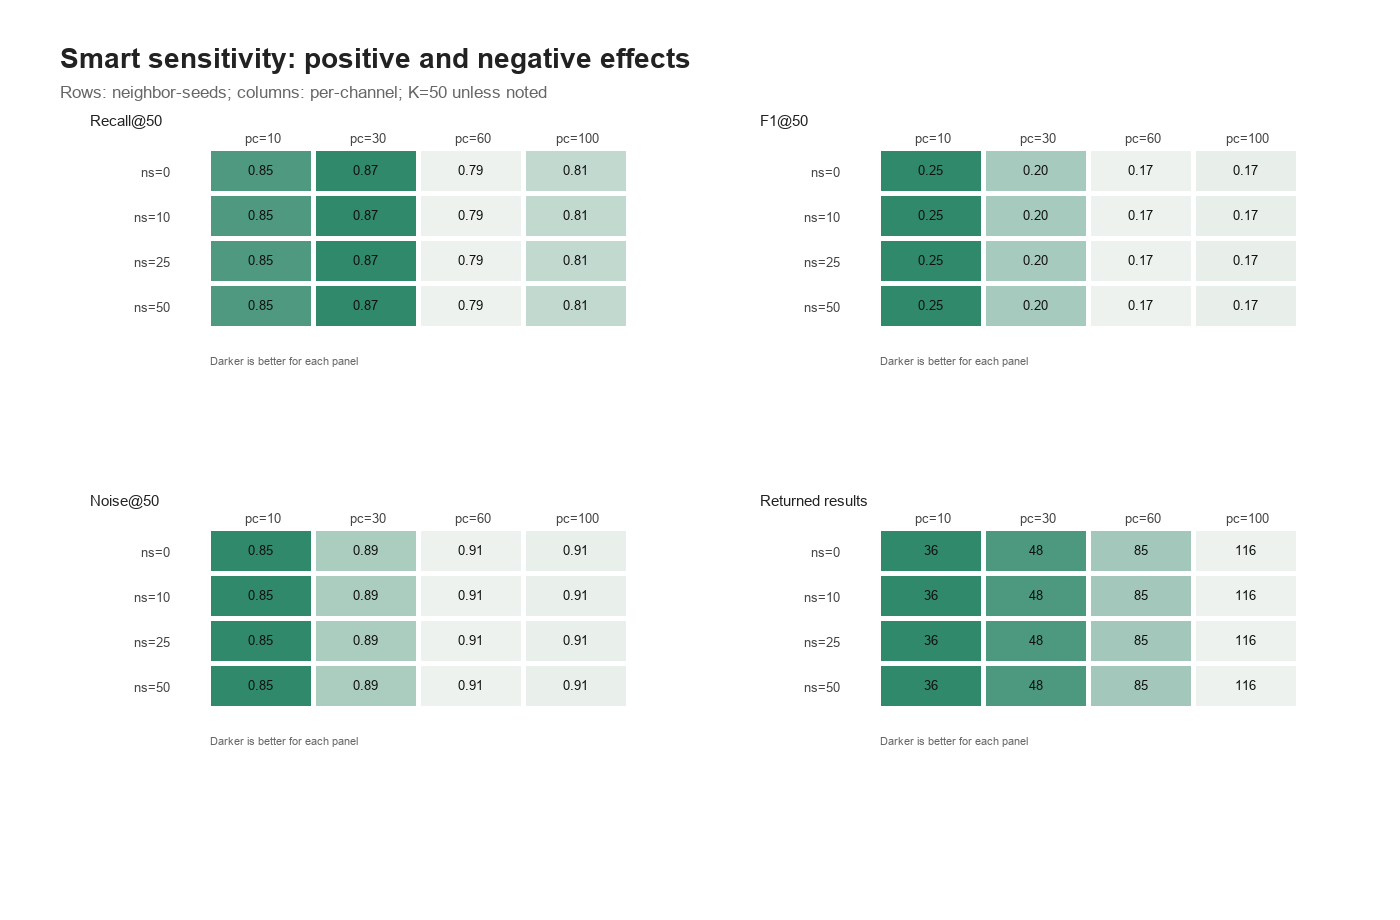
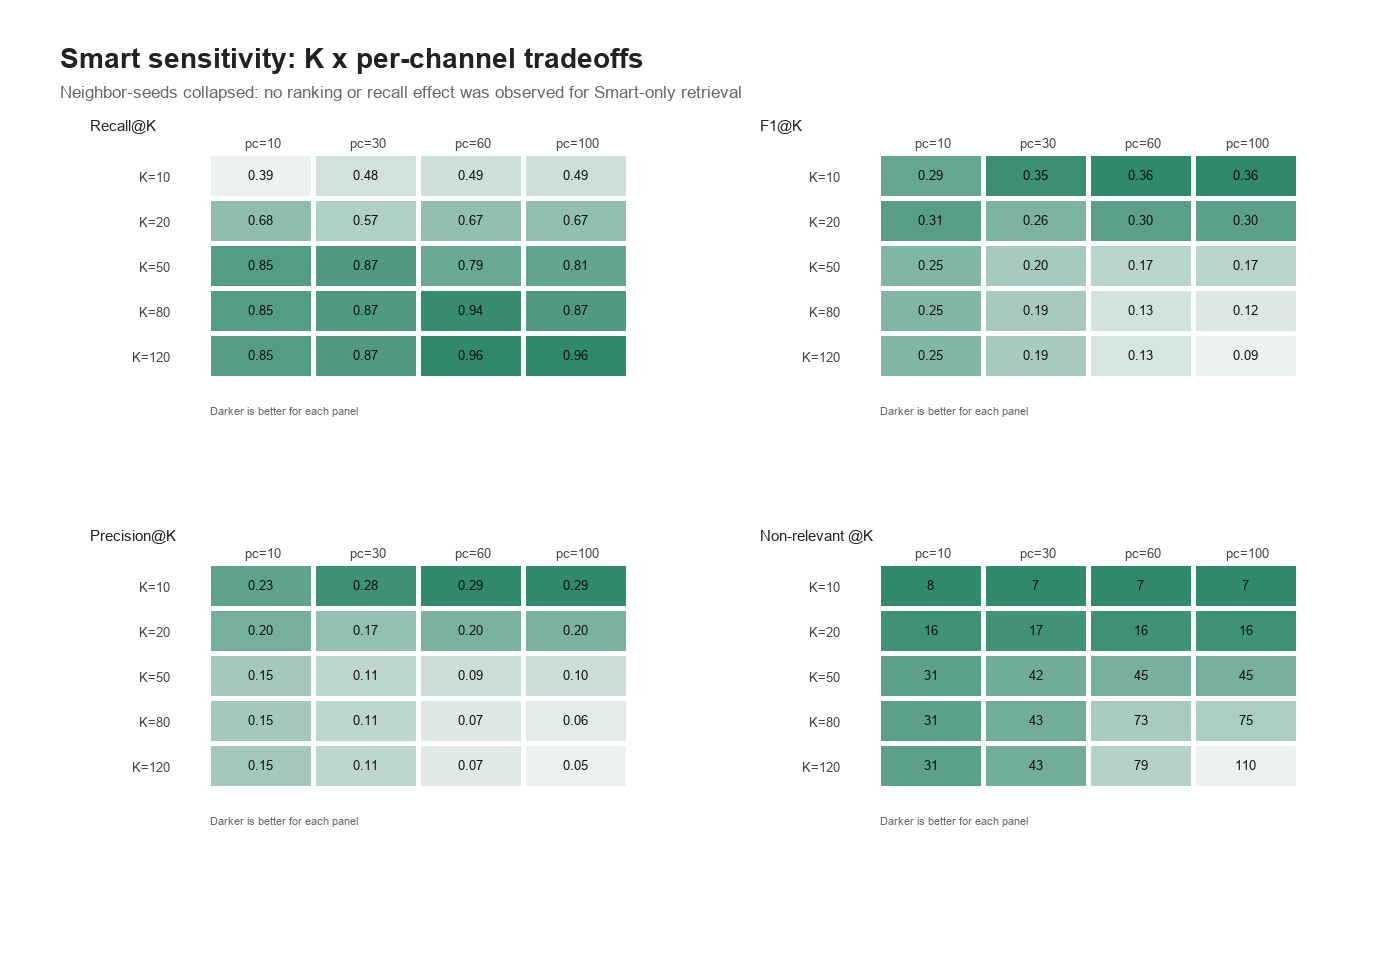
Clarify Smart sensitivity tradeoff analysis

diff --git a/README.md b/README.md
@@ -122,9 +122,11 @@ An earlier 3-task pilot is archived in [pilot_smoke_test.md](docs/benchmark/pilo
 
 At K=20, RRF union had the highest mean Recall and F1, while Smart was roughly 50x faster and kept the strongest first-hit behavior. At K=50, Smart reached the highest mean recall in this expanded run: Smart `0.87`, OHS `0.73`, RRF union `0.82`. The practical tradeoff is clear: use Smart/`auto` for fast daily recall, and use union/OHS when the extra latency is acceptable.
 
-**Parameter sensitivity.** The fixed operating point above is not assumed optimal. A Smart-only sensitivity grid swept `per-channel ∈ {10,30,60,100}` and `neighbor-seeds ∈ {0,10,25,50}` with `limit=120`, then scored K=10/20/50/80/120. Full data: [sensitivity_smart_grid.csv](docs/benchmark/sensitivity_smart_grid.csv), [sensitivity_smart_at50.csv](docs/benchmark/sensitivity_smart_at50.csv), and [sensitivity_settings.json](docs/benchmark/sensitivity_settings.json).
+**Parameter sensitivity.** The fixed operating point above is not assumed optimal. A Smart-only sensitivity grid swept `per-channel ∈ {10,30,60,100}` and `neighbor-seeds ∈ {0,10,25,50}` with `limit=120`, then scored K=10/20/50/80/120. Full grid data: [sensitivity_smart_grid.csv](docs/benchmark/sensitivity_smart_grid.csv). The primary plot uses the collapsed K by per-channel table in [sensitivity_smart_collapsed.csv](docs/benchmark/sensitivity_smart_collapsed.csv); settings and the no-op diagnostic are in [sensitivity_settings.json](docs/benchmark/sensitivity_settings.json).
 
-At K=50, the default `per-channel=30` reached the highest mean Recall (`0.87`), but `per-channel=10` was close (`0.85`) with better F1 (`0.25` vs `0.20`), better Precision (`0.145` vs `0.112`), and lower read burden (36 vs 48 returned results). Wider candidate pools were not monotonically better: `per-channel=60/100` lowered Recall@50 to `0.79/0.81` while returning 85/116 results. Increasing K to 120 recovered Recall to `0.96` for `per-channel=60/100`, but Precision fell to `0.068/0.050`. In this snapshot, `neighbor-seeds` had no measurable aggregate effect on recall or ranking metrics.
+`neighbor-seeds` produced identical rankings in this Smart-only run: max observed range across `neighbor-seeds` was `0.0` for Precision, Recall, F1, MRR, retrieved count, and result count. This is expected for the current wrapper path because `neighbor-seeds` only adds graph neighbors when merged results expose links/backlinks; the Smart-only channel results in this snapshot did not change the graph-neighbor candidate set. The main sensitivity figure therefore collapses over `neighbor-seeds` and treats it as a diagnostic control, not a meaningful optimization axis.
+
+At K=50, the default `per-channel=30` reached the highest mean Recall (`0.87`), but `per-channel=10` was close (`0.85`) with better F1 (`0.25` vs `0.20`), better Precision (`0.145` vs `0.112`), and lower read burden (36 vs 48 returned results). Wider candidate pools were not monotonically better: `per-channel=60/100` lowered Recall@50 to `0.79/0.81` while returning 85/116 results. Increasing K to 120 recovered Recall to `0.96` for `per-channel=60/100`, but Precision fell to `0.068/0.050`.
 
 ![Benchmark summary at K=20](docs/benchmark/figures/summary_at20.png)
 
@@ -140,7 +142,7 @@ At K=50, the default `per-channel=30` reached the highest mean Recall (`0.87`), 
 
 ![Recall heatmap at K=20](docs/benchmark/figures/recall_heatmap_at20.png)
 
-![Smart sensitivity tradeoff matrix](docs/benchmark/figures/sensitivity_tradeoff_matrix_at50.png)
+![Smart sensitivity K by per-channel tradeoff matrix](docs/benchmark/figures/sensitivity_tradeoff_matrix_at50.png)
 
 ![Smart read-budget tradeoff curves](docs/benchmark/figures/sensitivity_k_tradeoff_curves.png)
 

diff --git a/README.zh-CN.md b/README.zh-CN.md
@@ -122,9 +122,11 @@ node scripts/obsidian_high_recall.mjs query "my query" --vault "/absolute/path/t
 
 在 K=20 时，RRF union 的 mean Recall 和 F1 最高；Smart 大约快 50 倍，并且保留最强的 first-hit behavior。在 K=50 时，本轮扩样实验 Smart 的 mean recall 最高：Smart `0.87`、OHS `0.73`、RRF union `0.82`。实际 tradeoff 很清楚：日常 recall 用 Smart/`auto`；只有在能接受额外延迟时，再用 union/OHS。
 
-**参数敏感性。** 上面的固定 operating point 不代表最优参数。我们额外做了 Smart-only sensitivity grid：扫 `per-channel ∈ {10,30,60,100}` 和 `neighbor-seeds ∈ {0,10,25,50}`，固定 `limit=120`，并评估 K=10/20/50/80/120。完整数据见：[sensitivity_smart_grid.csv](docs/benchmark/sensitivity_smart_grid.csv)、[sensitivity_smart_at50.csv](docs/benchmark/sensitivity_smart_at50.csv)、[sensitivity_settings.json](docs/benchmark/sensitivity_settings.json)。
+**参数敏感性。** 上面的固定 operating point 不代表最优参数。我们额外做了 Smart-only sensitivity grid：扫 `per-channel ∈ {10,30,60,100}` 和 `neighbor-seeds ∈ {0,10,25,50}`，固定 `limit=120`，并评估 K=10/20/50/80/120。完整 grid data 见：[sensitivity_smart_grid.csv](docs/benchmark/sensitivity_smart_grid.csv)。主图使用 collapse over `neighbor-seeds` 后的 K × per-channel 表：[sensitivity_smart_collapsed.csv](docs/benchmark/sensitivity_smart_collapsed.csv)；实验设置和 no-op diagnostic 见：[sensitivity_settings.json](docs/benchmark/sensitivity_settings.json)。
 
-在 K=50 时，默认 `per-channel=30` 的 mean Recall 最高（`0.87`），但 `per-channel=10` 非常接近（`0.85`），同时 F1 更高（`0.25` vs `0.20`）、Precision 更高（`0.145` vs `0.112`）、阅读负担更低（36 vs 48 个返回结果）。更宽的 candidate pool 并不单调更好：`per-channel=60/100` 把 Recall@50 降到 `0.79/0.81`，同时返回 85/116 个结果。把 K 提高到 120 可以让 `per-channel=60/100` 的 Recall 恢复到 `0.96`，但 Precision 会降到 `0.068/0.050`。在这个 snapshot 里，`neighbor-seeds` 对 recall 或 ranking metrics 没有可测的 aggregate effect。
+`neighbor-seeds` 在这轮 Smart-only 实验里产生了完全相同的 ranking：跨 `neighbor-seeds` 的 Precision、Recall、F1、MRR、retrieved count、result count 最大变化都是 `0.0`。这符合当前 wrapper 路径：`neighbor-seeds` 只会在 merged results 暴露 links/backlinks 时加入 graph neighbors；而这个 snapshot 的 Smart-only channel results 没有改变 graph-neighbor candidate set。因此主图把 `neighbor-seeds` collapse 掉，把它作为 diagnostic control，而不是有意义的优化轴。
+
+在 K=50 时，默认 `per-channel=30` 的 mean Recall 最高（`0.87`），但 `per-channel=10` 非常接近（`0.85`），同时 F1 更高（`0.25` vs `0.20`）、Precision 更高（`0.145` vs `0.112`）、阅读负担更低（36 vs 48 个返回结果）。更宽的 candidate pool 并不单调更好：`per-channel=60/100` 把 Recall@50 降到 `0.79/0.81`，同时返回 85/116 个结果。把 K 提高到 120 可以让 `per-channel=60/100` 的 Recall 恢复到 `0.96`，但 Precision 会降到 `0.068/0.050`。
 
 ![Benchmark summary at K=20](docs/benchmark/figures/summary_at20.png)
 
@@ -140,7 +142,7 @@ node scripts/obsidian_high_recall.mjs query "my query" --vault "/absolute/path/t
 
 ![Recall heatmap at K=20](docs/benchmark/figures/recall_heatmap_at20.png)
 
-![Smart sensitivity tradeoff matrix](docs/benchmark/figures/sensitivity_tradeoff_matrix_at50.png)
+![Smart sensitivity K by per-channel tradeoff matrix](docs/benchmark/figures/sensitivity_tradeoff_matrix_at50.png)
 
 ![Smart read-budget tradeoff curves](docs/benchmark/figures/sensitivity_k_tradeoff_curves.png)
 

diff --git a/docs/benchmark/README.md b/docs/benchmark/README.md
@@ -6,7 +6,8 @@ This directory contains anonymized aggregate results from a private local Obsidi
 - `summary_metrics.csv`: mean and standard deviation across tasks.
 - `case_metrics_at20.csv`: anonymized case-level metrics at K=20.
 - `sensitivity_smart_grid.csv`: aggregate Smart parameter grid over K, per-channel, and neighbor-seeds.
-- `sensitivity_smart_at50.csv`: K=50 slice for tradeoff plots.
+- `sensitivity_smart_collapsed.csv`: primary K by per-channel grid, collapsed over neighbor-seeds.
+- `sensitivity_smart_at50.csv`: K=50 slice for diagnostic checks.
 - `sensitivity_settings.json`: sensitivity experiment settings.
 - `pilot_smoke_test.md`: aggregate-only archive of the earlier 3-task pilot.
 - `figures/`: PNG figures referenced by the root README files.